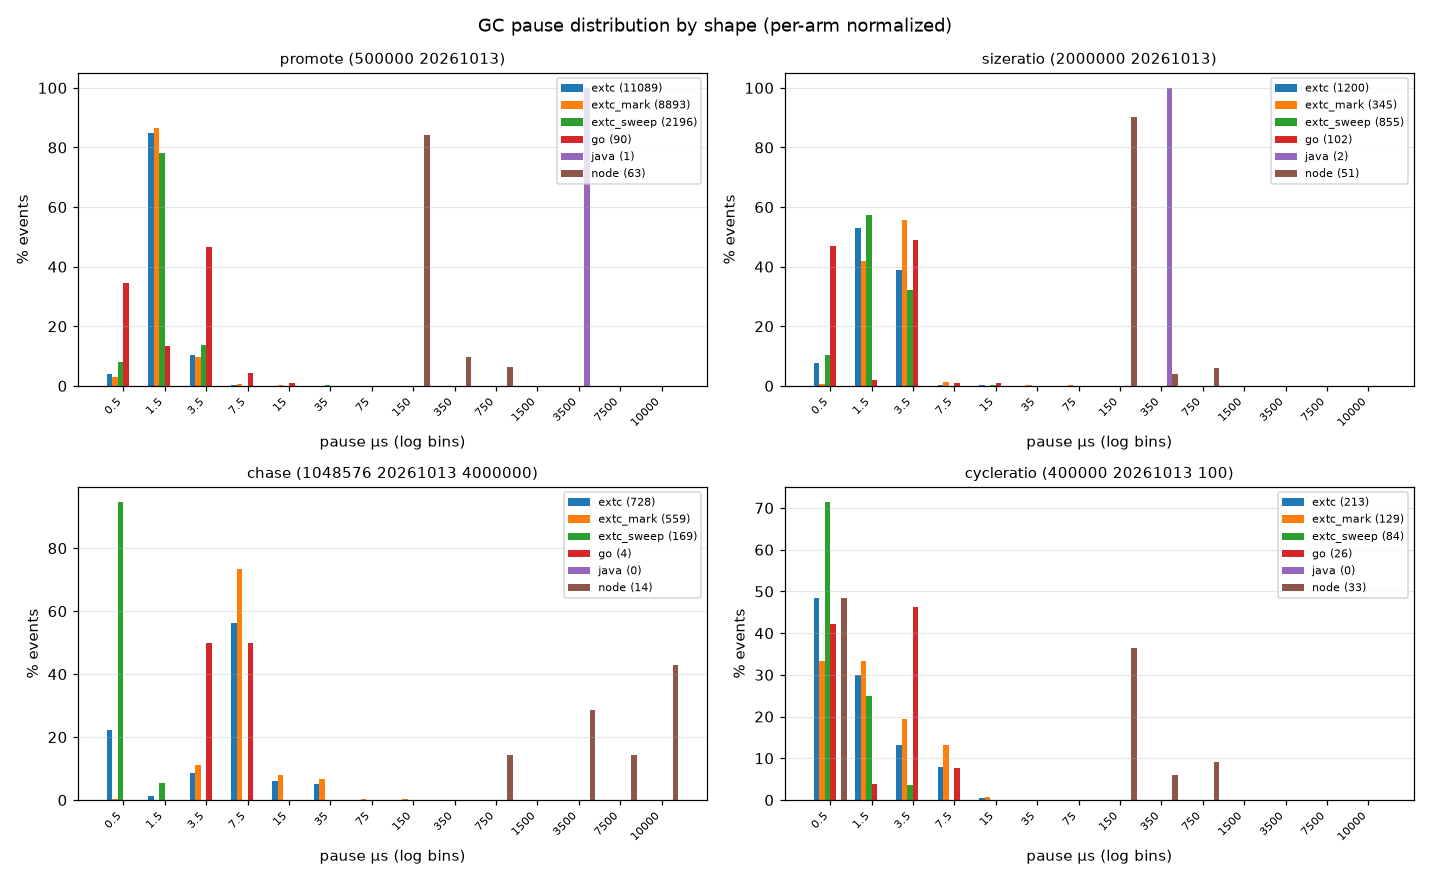
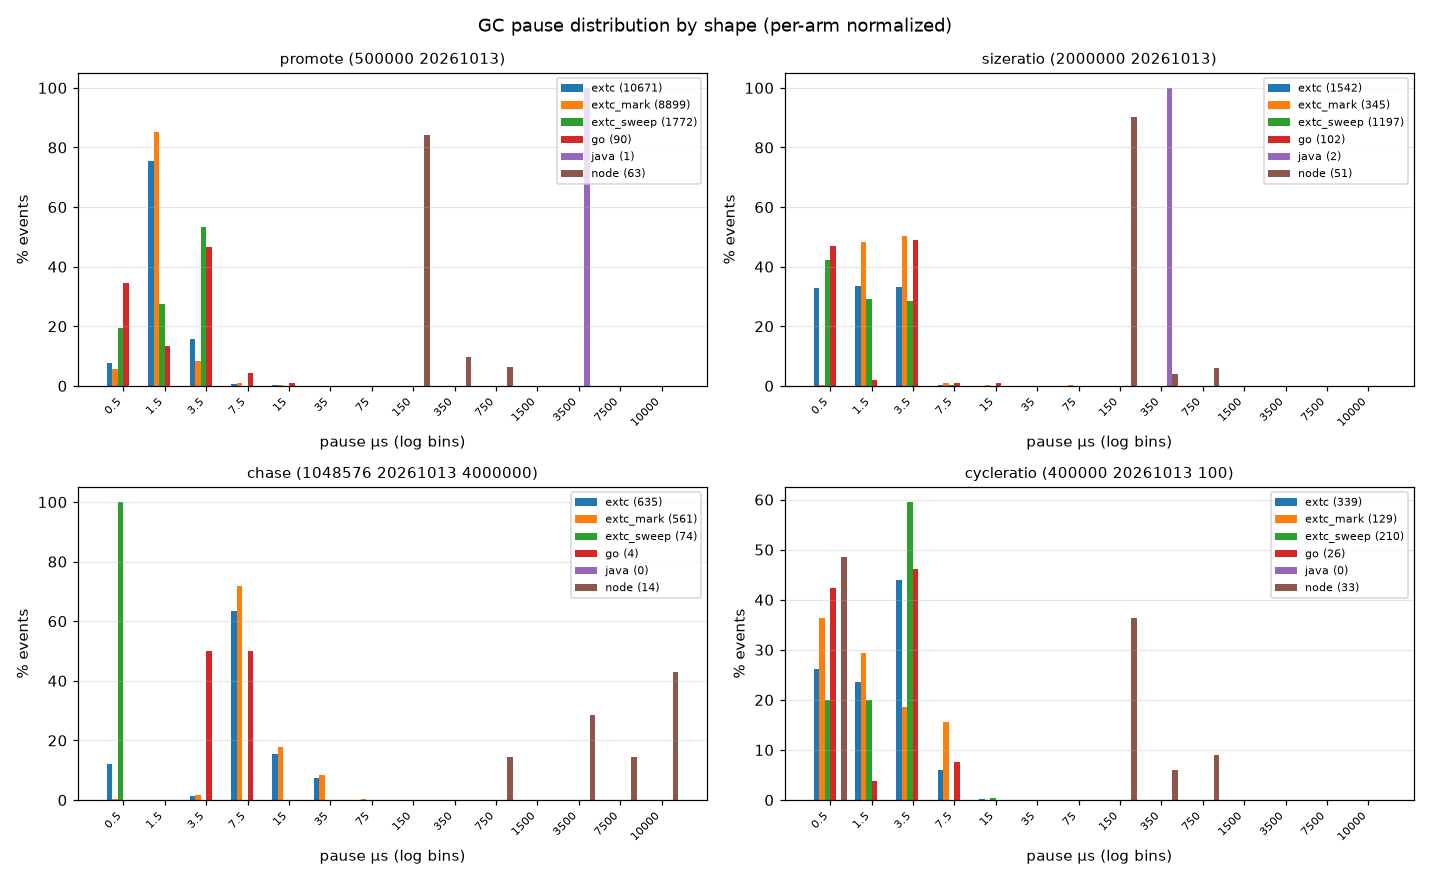
停顿口径按 v13 重取：四形状 ≥1ms 事件仍为 0，chase/sizeratio 的 p99.9 显著变好，promote 与 cycleratio 的上升如实入表

diff --git a/bench/gc/v2/PAUSE.md b/bench/gc/v2/PAUSE.md
@@ -22,11 +22,11 @@ Rust / C++ 手工释放，没有 GC 停顿，不进本表。
    亚 100 µs 的 scavenge 记成 0 ⇒ `[0,100)` 那些细档别读；三个托管语言都是新进程、无预热。
 3. **extC 的「停顿」是在 mutator 线程上做的 GC 工作**（没有独立 GC 线程）⇒ 它的 `total_us` 与 `total_gc_us` 同值（见下一节）；
    拿它的 p50 去和 Go 的 STW p50 排名次是错的，要比的是「mutator 被占住多少时间」= 下一节的 Σ 表。
-4. **max 是抢占敏感量**：extC chase 的最长一步是 0.16 ms（`over1ms=0`，没有事件跨过 1 ms），分位与超阈计数比 max 更值得看；
+4. **max 是抢占敏感量**：extC chase 的最长一步是 0.07 ms（`over1ms=0`，没有事件跨过 1 ms），分位与超阈计数比 max 更值得看；
    仓库纪律是用超阈计数与分位（`≥1ms` 列、p99/p99.9）而不是 max。
 5. **取数必须串行**：所有臂都钉同一条核（见 `pause/README.md` 第 2 节），并发跑会互相抢占（同一臂两次数值可差数倍）。
 6. **占比高不是缺陷，占比低也不等于便宜**：停顿/GC 占比是「这次运行里回收付出了多少」；判「值不值」要配同一形状的**峰值 RSS**（见 `REPORT.md` 的墙钟/RSS 表）。
-   extC 占比高（`promote` 40.9%、`cycleratio` 2.2%）换来的是 7.4–7.5 MB 峰值；Java 的 `cycleratio` 0 事件、0.0% 占比，代价是 **104.4 MB**（`promote` 的 1.3% 也是靠 127.6 MB 堆头寸）。
+   extC 占比高（`promote` 40.5%、`cycleratio` 5.2%）换来的是 7.4–7.5 MB 峰值；Java 的 `cycleratio` 0 事件、0.0% 占比，代价是 **104.4 MB**（`promote` 的 1.3% 也是靠 127.6 MB 堆头寸）。
    低占比既可能是「回收便宜」，也可能是「还没回收」，两张表要一起读。
 
 
@@ -36,10 +36,10 @@ Rust / C++ 手工释放，没有 GC 停顿，不进本表。
 
 | 臂 | 事件数 | 事件/s | 总停顿 | 占墙钟 | p50 | p90 | p99 | p99.9 | max | ≥1ms |
 |---|---|---|---|---|---|---|---|---|---|---|
-| extc | 11089 | 267682 | 16.94 ms | 40.90% | 1.30 µs | 2.00 µs | 4.70 µs | 15.41 µs | 42.10 µs | 0 |
-| extc_mark | 8893 | 214672 | 13.55 ms | 32.72% | 2.00 µs | 5.00 µs | 5.00 µs | 20.00 µs | 50.00 µs | 0 |
-| extc_sweep | 2196 | 53010 | 3.39 ms | 8.18% | 2.00 µs | 5.00 µs | 5.00 µs | 50.00 µs | 50.00 µs | 0 |
+| extc | 10671 | 265514 | 16.29 ms | 40.53% | 1.20 µs | 2.60 µs | 4.90 µs | 19.36 µs | 80.10 µs | 0 |
+| extc_sweep | 1772 | 44091 | 3.24 ms | 8.06% | 5.00 µs | 5.00 µs | 5.00 µs | 10.00 µs | 20.00 µs | 0 |
 | go | 90 | 799 | 181.00 µs | 0.16% | 3.00 µs | 4.00 µs | 7.55 µs | 11.56 µs | 12.00 µs | 0 |
+| extc_mark | 8899 | 221423 | 13.05 ms | 32.47% | 2.00 µs | 2.00 µs | 10.00 µs | 50.00 µs | 100.00 µs | 0 |
 | node | 63 | 566 | 9.40 ms | 8.44% | 100.00 µs | 200.00 µs | 738.00 µs | 793.80 µs | 800.00 µs | 0 |
 | java | 1 | 5 | 2.38 ms | 1.27% | 2.38 ms | 2.38 ms | 2.38 ms | 2.38 ms | 2.38 ms | 1 |
 
@@ -47,10 +47,10 @@ Rust / C++ 手工释放，没有 GC 停顿，不进本表。
 
 | 臂 | 事件数 | 事件/s | 总停顿 | 占墙钟 | p50 | p90 | p99 | p99.9 | max | ≥1ms |
 |---|---|---|---|---|---|---|---|---|---|---|
-| extc | 1200 | 45249 | 2.28 ms | 8.61% | 1.80 µs | 2.50 µs | 3.50 µs | 27.03 µs | 65.30 µs | 0 |
+| extc | 1542 | 87271 | 2.21 ms | 12.51% | 1.70 µs | 2.10 µs | 2.40 µs | 10.08 µs | 65.90 µs | 0 |
 | go | 102 | 2238 | 185.00 µs | 0.41% | 2.50 µs | 4.00 µs | 4.99 µs | 14.89 µs | 16.00 µs | 0 |
-| extc_sweep | 855 | 32240 | 1.47 ms | 5.56% | 2.00 µs | 5.00 µs | 5.00 µs | 20.00 µs | 20.00 µs | 0 |
-| extc_mark | 345 | 13009 | 808.20 µs | 3.05% | 5.00 µs | 5.00 µs | 10.00 µs | 100.00 µs | 100.00 µs | 0 |
+| extc_sweep | 1197 | 67746 | 1.46 ms | 8.26% | 2.00 µs | 5.00 µs | 5.00 µs | 10.00 µs | 10.00 µs | 0 |
+| extc_mark | 345 | 19526 | 751.00 µs | 4.25% | 5.00 µs | 5.00 µs | 10.00 µs | 100.00 µs | 100.00 µs | 0 |
 | java | 2 | 13 | 634.00 µs | 0.42% | 317.00 µs | 359.40 µs | 368.94 µs | 369.89 µs | 370.00 µs | 0 |
 | node | 51 | 654 | 7.10 ms | 9.10% | 100.00 µs | 100.00 µs | 650.00 µs | 695.00 µs | 700.00 µs | 0 |
 
@@ -59,10 +59,10 @@ Rust / C++ 手工释放，没有 GC 停顿，不进本表。
 | 臂 | 事件数 | 事件/s | 总停顿 | 占墙钟 | p50 | p90 | p99 | p99.9 | max | ≥1ms |
 |---|---|---|---|---|---|---|---|---|---|---|
 | java | 0 | 0 | 0.00 µs | 0.00% | 0.00 µs | 0.00 µs | 0.00 µs | 0.00 µs | 0.00 µs | 0 |
-| extc_sweep | 169 | 1194 | 85.20 µs | 0.06% | 1.00 µs | 1.00 µs | 2.00 µs | 2.00 µs | 2.00 µs | 0 |
+| extc_sweep | 74 | 506 | 18.10 µs | 0.01% | 1.00 µs | 1.00 µs | 1.00 µs | 1.00 µs | 1.00 µs | 0 |
 | go | 4 | 26 | 17.00 µs | 0.01% | 4.50 µs | 5.70 µs | 5.97 µs | 6.00 µs | 6.00 µs | 0 |
-| extc | 728 | 5144 | 5.19 ms | 3.67% | 5.40 µs | 10.30 µs | 35.31 µs | 98.24 µs | 157.20 µs | 0 |
-| extc_mark | 559 | 3950 | 5.10 ms | 3.61% | 10.00 µs | 20.00 µs | 50.00 µs | 200.00 µs | 200.00 µs | 0 |
+| extc | 635 | 4341 | 5.54 ms | 3.79% | 5.70 µs | 11.86 µs | 41.73 µs | 58.13 µs | 74.80 µs | 0 |
+| extc_mark | 561 | 3835 | 5.53 ms | 3.78% | 10.00 µs | 20.00 µs | 50.00 µs | 100.00 µs | 100.00 µs | 0 |
 | node | 14 | 14 | 315.90 ms | 31.11% | 7.55 ms | 66.87 ms | 112.89 ms | 116.86 ms | 117.30 ms | 12 |
 
 ### cycleratio（400000 20261013 100）
@@ -70,10 +70,10 @@ Rust / C++ 手工释放，没有 GC 停顿，不进本表。
 | 臂 | 事件数 | 事件/s | 总停顿 | 占墙钟 | p50 | p90 | p99 | p99.9 | max | ≥1ms |
 |---|---|---|---|---|---|---|---|---|---|---|
 | java | 0 | 0 | 0.00 µs | 0.00% | 0.00 µs | 0.00 µs | 0.00 µs | 0.00 µs | 0.00 µs | 0 |
-| extc_sweep | 84 | 5336 | 66.70 µs | 0.42% | 1.00 µs | 2.00 µs | 5.00 µs | 5.00 µs | 5.00 µs | 0 |
+| extc_sweep | 210 | 12764 | 577.30 µs | 3.51% | 5.00 µs | 5.00 µs | 5.00 µs | 20.00 µs | 20.00 µs | 0 |
 | go | 26 | 773 | 49.00 µs | 0.15% | 2.50 µs | 4.00 µs | 5.00 µs | 5.00 µs | 5.00 µs | 0 |
-| extc | 213 | 13532 | 346.80 µs | 2.20% | 1.00 µs | 4.90 µs | 5.66 µs | 10.46 µs | 11.60 µs | 0 |
-| extc_mark | 129 | 8195 | 280.10 µs | 1.78% | 2.00 µs | 10.00 µs | 10.00 µs | 20.00 µs | 20.00 µs | 0 |
+| extc | 339 | 20605 | 848.30 µs | 5.16% | 2.00 µs | 4.82 µs | 5.30 µs | 13.34 µs | 17.40 µs | 0 |
+| extc_mark | 129 | 7841 | 271.00 µs | 1.65% | 2.00 µs | 10.00 µs | 10.00 µs | 10.00 µs | 10.00 µs | 0 |
 | node | 33 | 572 | 3.70 ms | 6.42% | 100.00 µs | 360.00 µs | 736.00 µs | 793.60 µs | 800.00 µs | 0 |
 
 ## Sigma GC time (not the same quantity as the pause table above)
@@ -88,7 +88,7 @@ Go/Java/Node 的并发阶段不计入停顿，但计入这里。
 |---|---|---|---|---|---|
 | java | 2.38 ms | 1.27% | 2.38 ms | 1.27% | 187.7 ms |
 | node | 9.40 ms | 8.44% | 8.79 ms | 7.89% | 111.4 ms |
-| extc | 16.94 ms | 40.90% | 16.95 ms | 40.91% | 41.4 ms |
+| extc | 16.29 ms | 40.53% | 16.29 ms | 40.54% | 40.2 ms |
 | go | 181.00 µs | 0.16% | 51.52 ms | 45.76% | 112.6 ms |
 
 ### sizeratio（2000000 20261013）
@@ -97,7 +97,7 @@ Go/Java/Node 的并发阶段不计入停顿，但计入这里。
 |---|---|---|---|---|---|
 | java | 634.00 µs | 0.42% | 634.00 µs | 0.42% | 151.1 ms |
 | node | 7.10 ms | 9.10% | 5.64 ms | 7.23% | 78.0 ms |
-| extc | 2.28 ms | 8.61% | 2.28 ms | 8.59% | 26.5 ms |
+| extc | 2.21 ms | 12.51% | 2.21 ms | 12.48% | 17.7 ms |
 | go | 185.00 µs | 0.41% | 12.79 ms | 28.06% | 45.6 ms |
 
 ### chase（1048576 20261013 4000000）
@@ -105,7 +105,7 @@ Go/Java/Node 的并发阶段不计入停顿，但计入这里。
 | 臂 | 停顿合计 | 停顿/墙钟 | GC 工作合计 | GC/墙钟 | 墙钟 |
 |---|---|---|---|---|---|
 | java | 0.00 µs | 0.00% | 0.00 µs | 0.00% | 161.9 ms |
-| extc | 5.19 ms | 3.67% | 5.19 ms | 3.67% | 141.5 ms |
+| extc | 5.54 ms | 3.79% | 5.54 ms | 3.79% | 146.3 ms |
 | node | 315.90 ms | 31.11% | 315.35 ms | 31.06% | 1015.4 ms |
 | go | 17.00 µs | 0.01% | 49.02 ms | 31.77% | 154.3 ms |
 
@@ -114,7 +114,7 @@ Go/Java/Node 的并发阶段不计入停顿，但计入这里。
 | 臂 | 停顿合计 | 停顿/墙钟 | GC 工作合计 | GC/墙钟 | 墙钟 |
 |---|---|---|---|---|---|
 | java | 0.00 µs | 0.00% | 0.00 µs | 0.00% | 68.6 ms |
-| extc | 346.80 µs | 2.20% | 346.70 µs | 2.20% | 15.7 ms |
+| extc | 848.30 µs | 5.16% | 847.60 µs | 5.15% | 16.5 ms |
 | node | 3.70 ms | 6.42% | 3.74 ms | 6.49% | 57.6 ms |
 | go | 49.00 µs | 0.15% | 9.15 ms | 27.19% | 33.6 ms |
 

diff --git a/docs/changelog/2026-11.md b/docs/changelog/2026-11.md
@@ -2914,3 +2914,13 @@ miss 收益被吃掉。②`extc_rc_shouldSweep` 直接 `return 0`（GC 全关）
 promote 38.35（cpp 115.33 / Rust 36.89）、sizeratio 14.68（16.31 / 19.87）、chase 134.29（123.29 / 244.43）、
 cycleratio 14.31（35.30 / 17.37）；峰值 RSS 5,724 / 2,656 / 67,744 / 2,656 kB，全部低于 C++ 臂。
 结论：三形状与 C++ 基本持平或更好（0.33–0.90×）、chase 在 1.025–1.089×，差距定位为紧凑布局的结构性代价。
+
+## 2026-11-99（停顿口径 v13） · 停顿分布按 v13 重取：四形状 ≥1ms 事件仍为 0，chase/sizeratio 的 p99.9 显著变好，promote 与 cycleratio 的上升如实入表
+
+**症状**：`bench/gc/v2/PAUSE.md` 的 extC 行还停在 v11 快照（commit `6683d034`，promote p99.9 15.41 µs）。v13（`81d66831`）改了三处会动停顿包络的结构 —— `EXTC_RC_SLAB_BITS 19`（512 KiB 块）、`EXTC_RC_SLAB_CHUNK_MIN = EXTC_RC_SLAB_SIZE`（块整块发槽）、`extc_rc_zeroSmall` 清零与 `EXTC_RC_SWEEP_FINISH_MAX 64` 收尾信用 —— 之后没有任何一轮重跑停顿量具，goal 要求的「停顿不退化」缺证据；而 512 KiB 块下 sweep 事件数必然变化，不重取就会把「事件变多」误读成「变慢」。
+
+**结构**：不改编译器，只重跑量具。`B=/tmp/fin REPS=2 PIN=6 bash bench/gc/v2/pause/extc.sh`（事件仍取自 `EXTC_RC_PAUSE=1 EXTC_RC_SLOWSTEP=0.001` 的 `[slow] dur_us=` 行，脚本自带 plain/diag stdout 逐字节对比），再用 `python3 bench/gc/v2/pause_report.py bench/gc/v2/pause bench/gc/v2/PAUSE.md bench/gc/v2/pause.png bench/gc/v2/pause_v2.tsv` 重生聚合；共 15 个入库产物变化（`PAUSE.md`、`pause.png`、`pause_v2.tsv` 与 `pause/extc`、`pause/extc_mark`、`pause/extc_sweep` 的 12 个 `meta`）。量具所测产物：`build/extc` `8af2a5e8`、`src/back/reclaim.c` `7151a431` / 4,212 行。
+
+**判据**：四形状 `≥1ms` 事件全为 **0**（停顿有界契约未破）。分位（括号内为 v11 旧值）：chase p99.9 98.24 → **58.13 µs**、max 157.20 → **74.80 µs**、p99 35.31 → 41.73；sizeratio p99.9 27.03 → **10.08 µs**、max 65.30 → 65.90、事件 1,200 → 1,542；promote p99.9 15.41 → **19.36 µs**、max 42.10 → **80.10 µs**、事件 11,089 → 10,671；cycleratio 总停顿 346.80 → **848.30 µs**（占墙钟 2.20% → **5.16%**）、p99.9 10.46 → 13.34、sweep 事件 84 → 210。Σ GC 归因表 promote 16.94 → 16.29 ms（40.90% → 40.53%）。
+
+**如实记录**：①promote / sizeratio / chase 各只有 **1 条** > 50 µs 的单次事件（80.1 / 65.9 / 74.8 µs），属抢占敏感量（`PAUSE.md` 读法第 4 条），不据此改判据；②cycleratio 的总停顿上升机制是「块更大 ⇒ sweep 事件更多、单步更短」（84 → 210 条，单条中位仍是 5 µs 档），绝对量 ≤ 0.85 ms、RSS 2,656 kB 未变；③promote 的 p99.9 从 15.41 升到 19.36 µs 是本轮唯一「分位变差」的项，仍远低于 50 µs 目标线。门禁：`./check.sh docs` 13/0、`check_tree --gate` ok、`check_changelog --gate` ok。

diff --git a/docs/CHANGELOG.md b/docs/CHANGELOG.md
@@ -3,7 +3,7 @@
 **全仓库只有这里记录历史。** 正文按月份分页在 [`changelog/`](changelog/)；本页只是索引 —— 每月一页，不存正文。
 
 <!-- 月份表：`python3 tools/check_changelog.py --write` 重新生成 -->
-| [2026-11](changelog/2026-11.md) | 119 | 2026-11-01 → 2026-11-99 |
+| [2026-11](changelog/2026-11.md) | 120 | 2026-11-01 → 2026-11-99 |
 | [2026-10](changelog/2026-10.md) | 329 | 2026-10-03 → 2026-10-31 |
 | [2026-09](changelog/2026-09.md) | 133 | 2026-09-18 → 2026-09-26 |
 <!-- /月份表 -->
